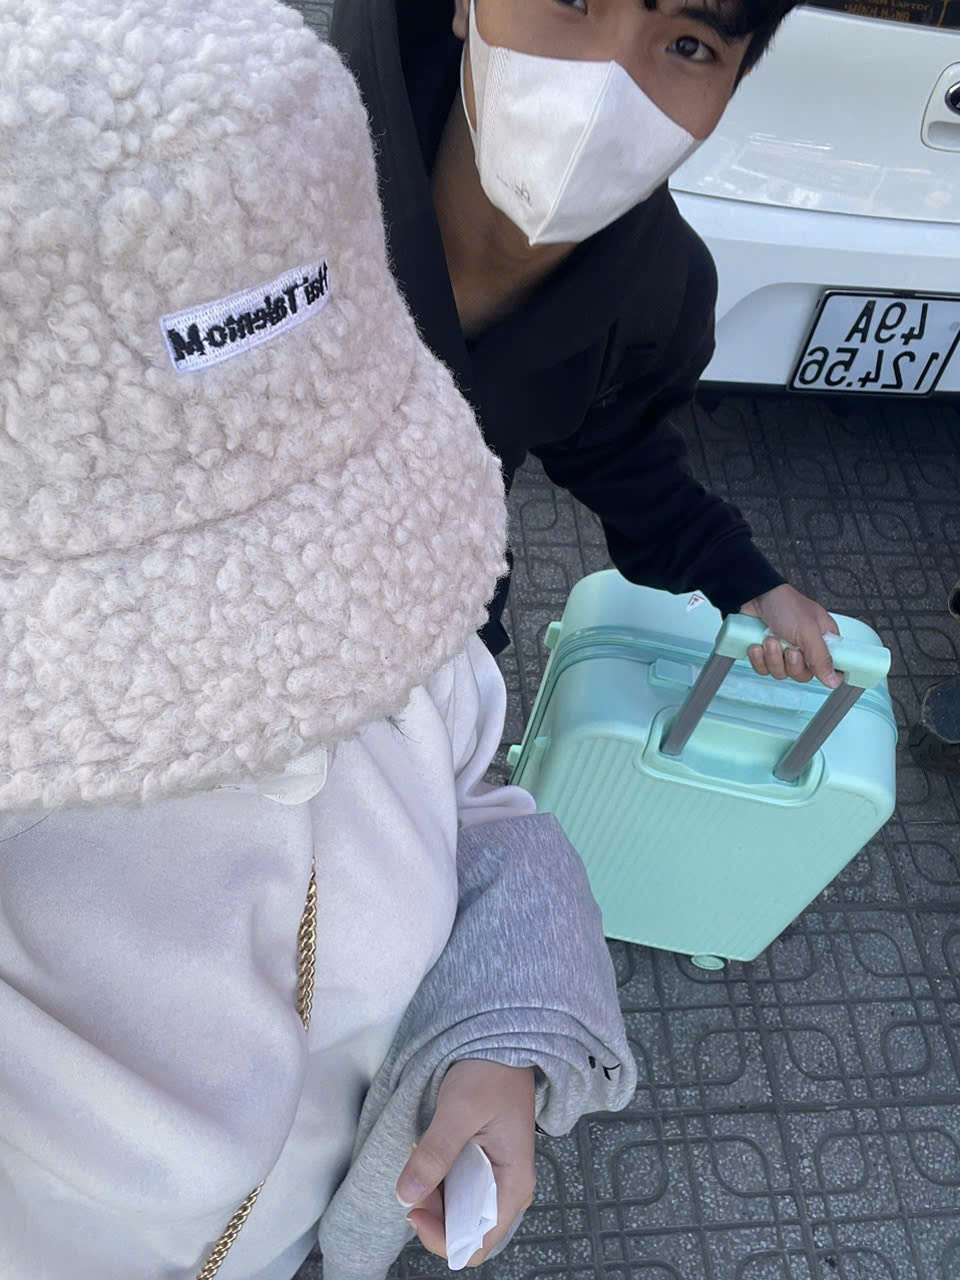
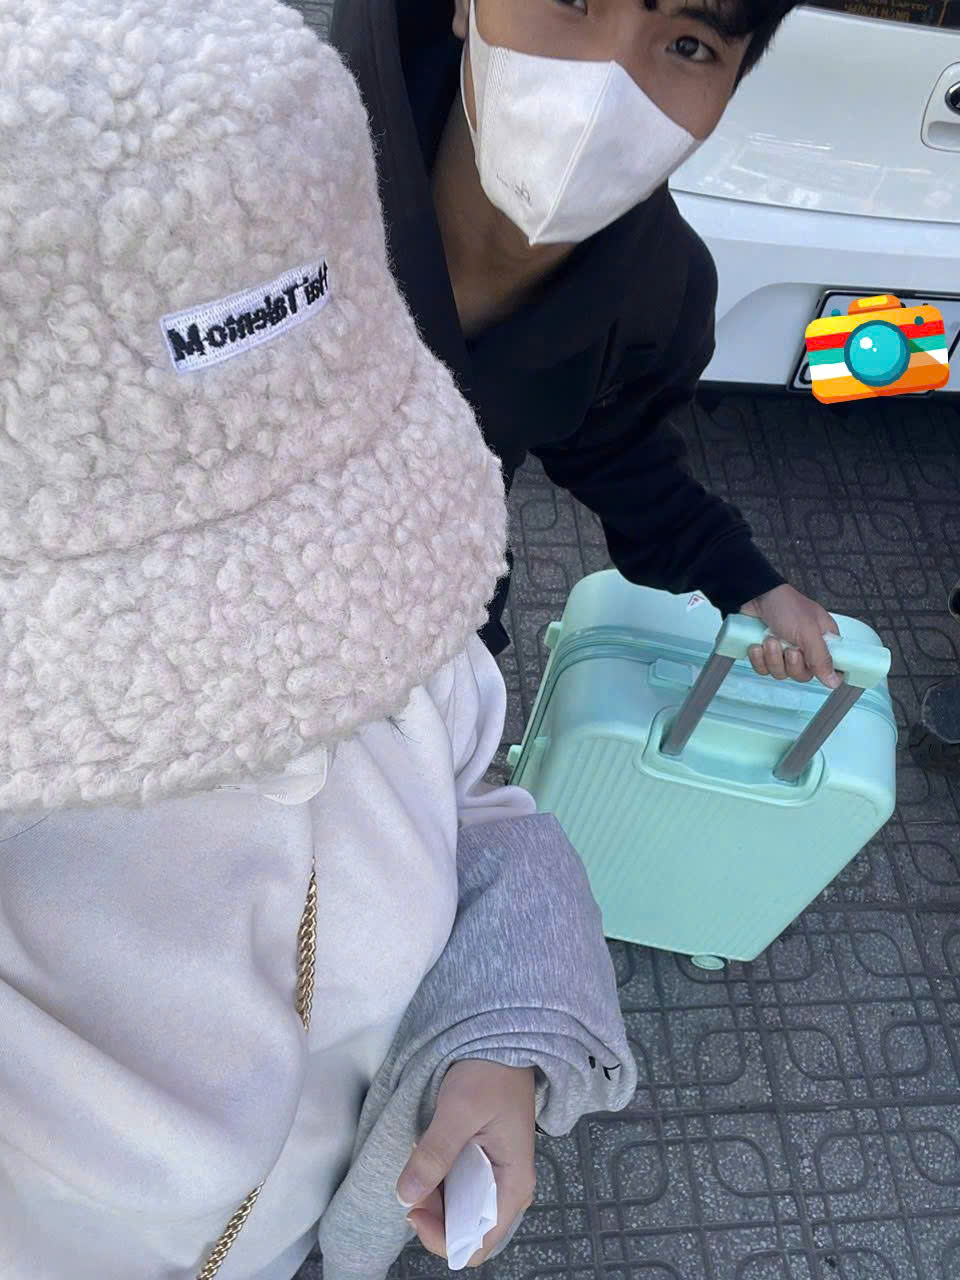
Sua loi chuc

Changed region(s): [[0.8125, 0.2188, 1.0, 0.3125]]

diff --git a/index.html b/index.html
@@ -827,26 +827,26 @@
         {
           month: "Tháng 3",
           cover:
-            "https://images.unsplash.com/photo-1522673607200-1645062cd955?w=400",
-          desc: "Đi xem phim khóc nhè, anh phải dỗ mãi mới nín. Đáng yêu ghê.",
+            "thang3/8thang3.jpg?w=400",
+          desc: "Tháng 3 không có lưu nhiều ảnh, chỉ có một video và món quà nhỏ dành tặng cho em bé. Cảm ơn em vì luôn trân trọng tất cả món quà mà anh tặng.",
           images: [
-            "https://images.unsplash.com/photo-1522673607200-1645062cd955?w=600",
+            "thang3/hoaLoopy.jpg?w=600",
           ],
         },
         {
           month: "Tháng 4",
           cover:
-            "https://images.unsplash.com/photo-1556910103-1c02745a30bf?w=400",
-          desc: "Cùng nhau nấu ăn, tuy hơi lộn xộn nhưng mà vui ha.",
+            "?w=400",
+          desc: "Tháng này sinh nhật anh bé, đi Vũng Tàu chơi",
           images: [
-            "https://images.unsplash.com/photo-1556910103-1c02745a30bf?w=600",
+            "?w=600",
           ],
         },
         {
           month: "Tháng 5",
           cover:
             "https://images.unsplash.com/photo-1520854221256-17451cc330e7?w=400",
-          desc: "Đà Lạt mộng mơ, anh chỉ nhớ mỗi nụ cười của em thôi.",
+          desc: "",
           images: [
             "https://images.unsplash.com/photo-1520854221256-17451cc330e7?w=600",
           ],
@@ -855,7 +855,7 @@
           month: "Tháng 6",
           cover:
             "https://images.unsplash.com/photo-1530103862676-de3c9da59af7?w=400",
-          desc: "Chúc mừng sinh nhật công chúa. Tuổi mới xinh đẹp và bớt bướng nha.",
+          desc: "Chúc mừng sinh nhật công chúa. Tuổi mới xinh đẹp .",
           images: [
             "https://images.unsplash.com/photo-1530103862676-de3c9da59af7?w=600",
           ],
@@ -864,7 +864,7 @@
           month: "Tháng 7",
           cover:
             "https://images.unsplash.com/photo-1515934751635-c81c6bc9a2d8?w=400",
-          desc: "Mưa ngập đường, hai đứa lội nước cười như điên.",
+          desc: "",
           images: [
             "https://images.unsplash.com/photo-1515934751635-c81c6bc9a2d8?w=600",
           ],
@@ -873,7 +873,7 @@
           month: "Tháng 8",
           cover:
             "?w=400",
-          desc: "Tháng này cãi nhau to, anh xin lỗi nha. Yêu em nhiều.",
+          desc: ".",
           images: [
             "?w=600",
           ],
@@ -881,17 +881,17 @@
         {
           month: "Tháng 9",
           cover:
-            "https://images.unsplash.com/photo-1511895426328-dc8714191300?w=400",
-          desc: "Làm hòa rồi thì mình lại đi ăn thôi. Béo lên là tại anh nuôi tốt.",
+            "?w=400",
+          desc: ".",
           images: [
-            "https://images.unsplash.com/photo-1511895426328-dc8714191300?w=600",
+            "?w=600",
           ],
         },
         {
           month: "Tháng 10",
           cover:
             "https://images.unsplash.com/photo-1507525428034-b723cf961d3e?w=400",
-          desc: "Mùa thu Hà Nội, đi dạo hồ Tây lãng mạn quá chừng.",
+          desc: ".",
           images: [
             "https://images.unsplash.com/photo-1507525428034-b723cf961d3e?w=600",
           ],
@@ -900,7 +900,7 @@
           month: "Tháng 11",
           cover:
             "https://images.unsplash.com/photo-1555939594-58d7cb561ad1?w=400",
-          desc: "Trời lạnh đi ăn nướng, em nướng thịt toàn cháy thôi haha.",
+          desc: ".",
           images: [
             "https://images.unsplash.com/photo-1555939594-58d7cb561ad1?w=600",
           ],
